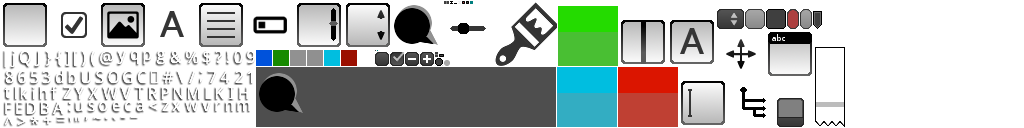
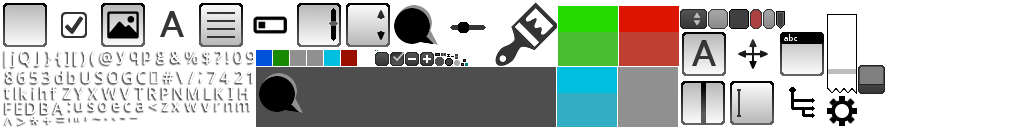
Make settings dialog usable

diff --git a/taxe/core/src/fvs/taxe/controller/SoundController.java b/taxe/core/src/fvs/taxe/controller/SoundController.java
@@ -7,10 +7,18 @@ import Util.Tuple;
 import com.badlogic.gdx.Gdx;
 import com.badlogic.gdx.audio.Music;
 import com.badlogic.gdx.audio.Sound;
+import com.badlogic.gdx.scenes.scene2d.InputEvent;
+import com.badlogic.gdx.scenes.scene2d.Stage;
+import com.badlogic.gdx.scenes.scene2d.ui.ImageButton;
+import com.badlogic.gdx.scenes.scene2d.ui.Skin;
+import com.badlogic.gdx.scenes.scene2d.utils.ClickListener;
 import com.badlogic.gdx.utils.Json;
 import com.badlogic.gdx.utils.JsonReader;
 import com.badlogic.gdx.utils.JsonValue;
 import com.badlogic.gdx.utils.JsonWriter.OutputType;
+
+import fvs.taxe.TaxeGame;
+import fvs.taxe.dialog.DialogSettings;
 
 public class SoundController {
 	private ArrayList<Tuple<String, Sound>> sounds = new ArrayList<Tuple<String, Sound>>();
@@ -106,5 +114,20 @@ public class SoundController {
 			json.setOutputType(OutputType.json);
 			Gdx.files.local("taxesettings.json").writeString(json.toJson(jsonOutput), false);
 		}
+	}
+	
+	public void addSettingsButton(final Stage stage, final Skin skin) {
+		ImageButton button = new ImageButton(skin, "settings");
+		button.setWidth(34.0f);
+		button.setHeight(34.0f);
+		button.setPosition(TaxeGame.WIDTH - 10.0f - button.getWidth(), 10.0f);
+		final SoundController self = this;
+		button.addListener(new ClickListener(){
+			@Override
+			public void clicked(InputEvent event, float x, float y) {
+				new DialogSettings(self, skin).show(stage);
+			}
+		});
+		stage.addActor(button);
 	}
 }

diff --git a/taxe/core/src/fvs/taxe/dialog/DialogSettings.java b/taxe/core/src/fvs/taxe/dialog/DialogSettings.java
@@ -14,13 +14,13 @@ public class DialogSettings extends UnifiedDialog {
 	private float origSound;
 
 	public DialogSettings(final SoundController soundController, Skin skin) {
-		super("Settings", skin, "bluewin");
+		super("Settings", skin, "greywin");
 		this.soundController = soundController;
 		
 		//Create Labels, Sliders and handlers (and store original values to allow restoration)
 		origMusic = soundController.getMusicVolume();
 		text("Music Volume");
-		Slider music = new Slider(0.0f, 1.0f, 0.01f, false, skin);
+		Slider music = new Slider(0.0f, 1.0f, 0.01f, false, skin, "settings");
 		music.setValue(origMusic);
 		music.addListener(new ChangeListener(){
 			@Override
@@ -34,7 +34,7 @@ public class DialogSettings extends UnifiedDialog {
 		
 		origSound = soundController.getSoundVolume();
 		text("Sound Volume");
-		Slider sound = new Slider(0.0f, 1.0f, 0.01f, false, skin);
+		Slider sound = new Slider(0.0f, 1.0f, 0.01f, false, skin, "settings");
 		sound.setValue(origSound);
 		sound.addListener(new ChangeListener(){
 			@Override

diff --git a/taxe/core/src/fvs/taxe/GameScreen.java b/taxe/core/src/fvs/taxe/GameScreen.java
@@ -182,10 +182,6 @@ public class GameScreen extends ScreenAdapter {
             gameLogic.dispose();
             game.setScreen(new ReplayScreen(game, context.getReplayManager(), playerNames));
         }
-        
-        if (Gdx.input.isKeyJustPressed(Input.Keys.S)) {
-        	new DialogSettings(context.getSoundController(), context.getSkin()).show(context.getStage());
-        }
 
         game.batch.begin();
 
@@ -261,6 +257,7 @@ public class GameScreen extends ScreenAdapter {
         resourceController.drawPlayerResources(gameLogic.getPlayerManager().getCurrentPlayer());
         
         //Load background music
+        game.soundController.addSettingsButton(stage, skin);
         game.soundController.playBackgroundMusic();
         
         if(gameLogic.getPlayerManager().getTurnNumber() == 0) {
